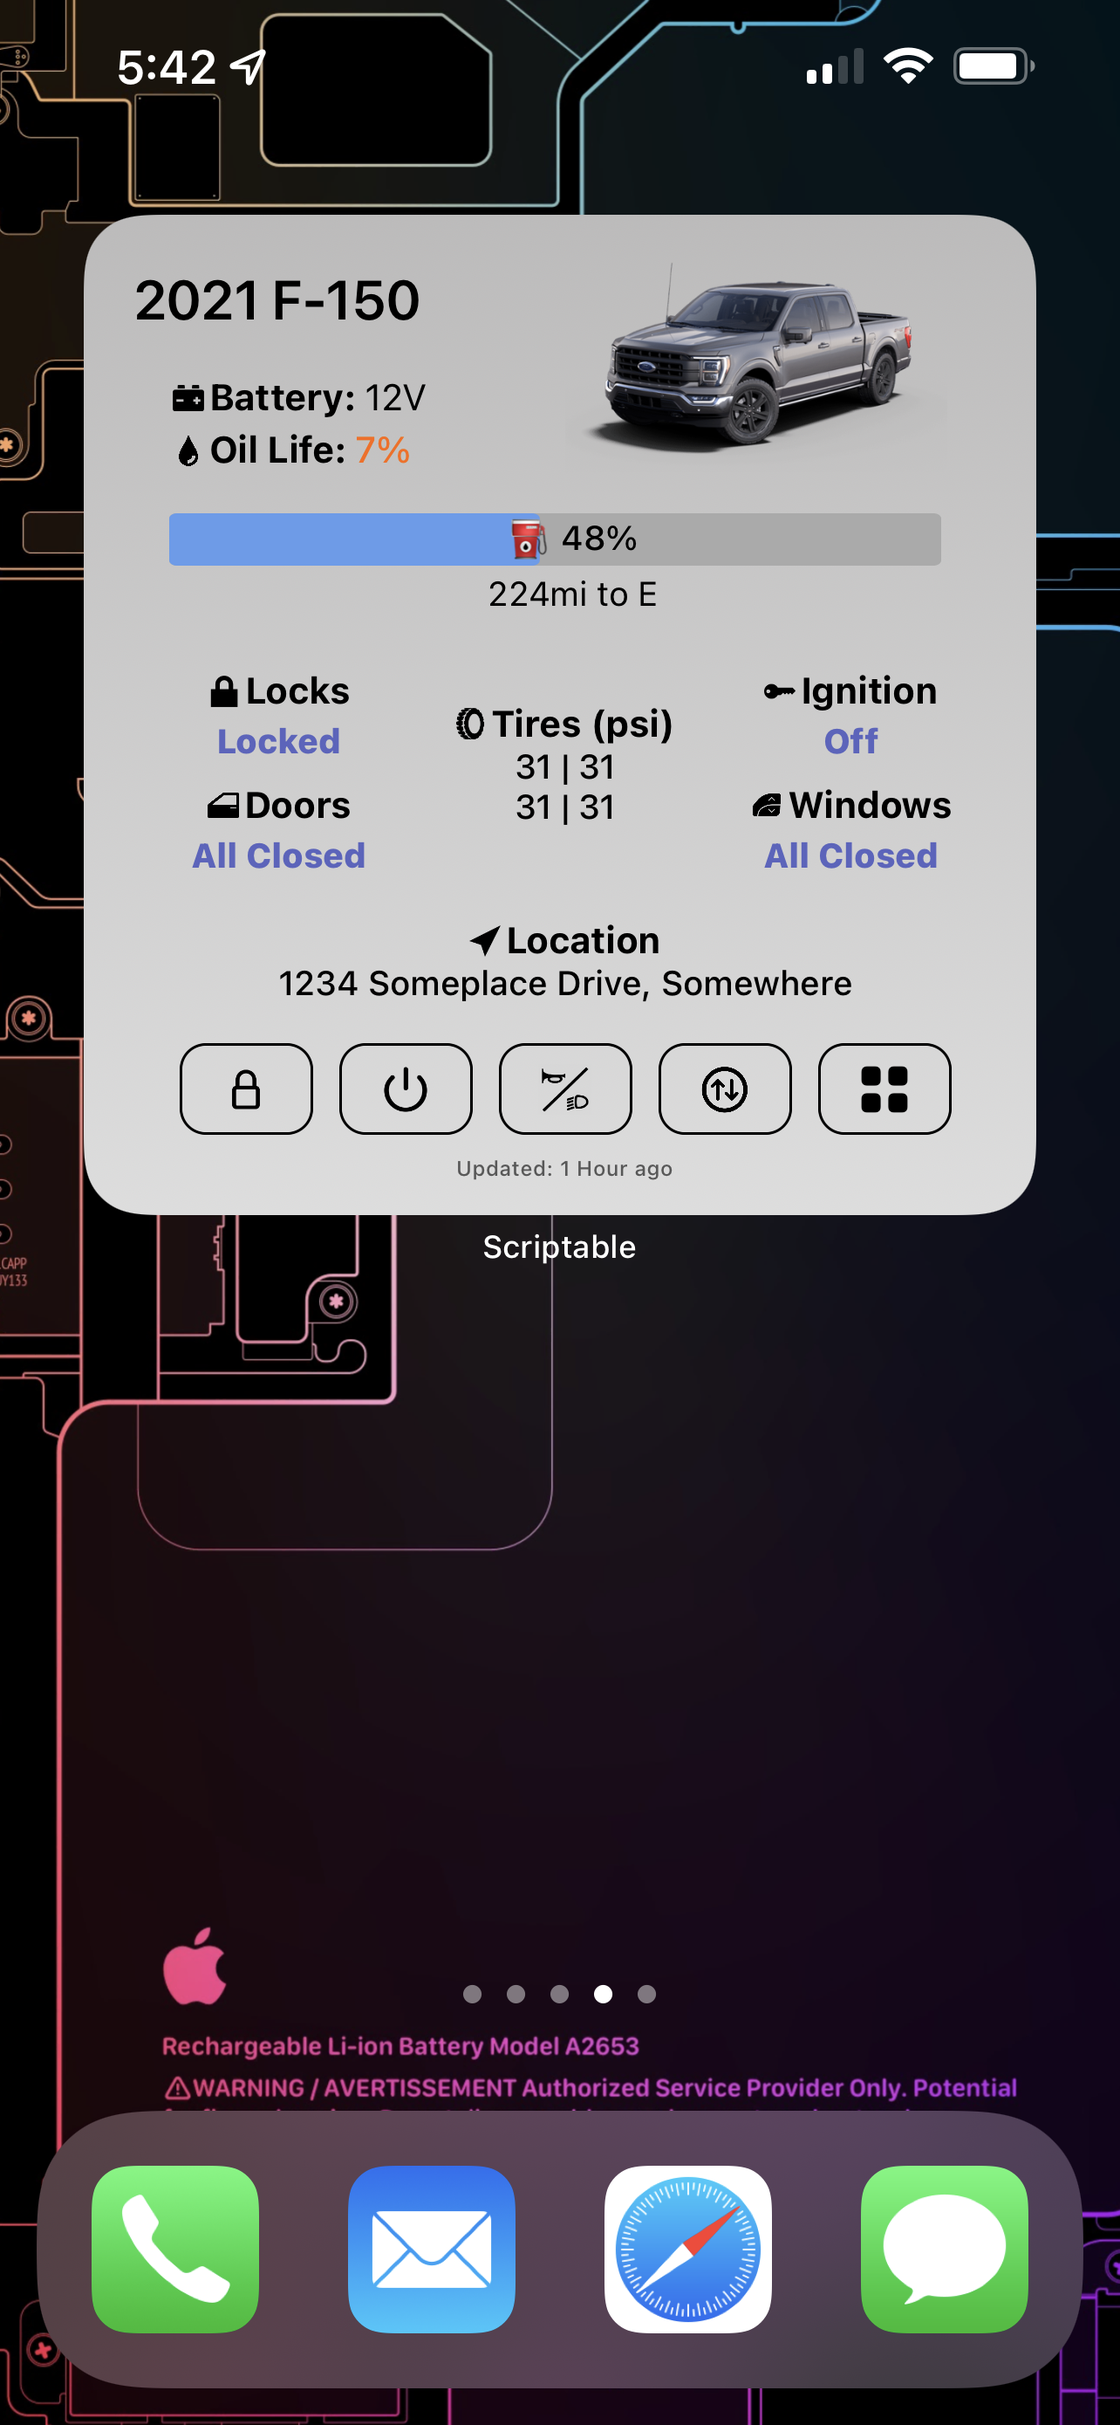
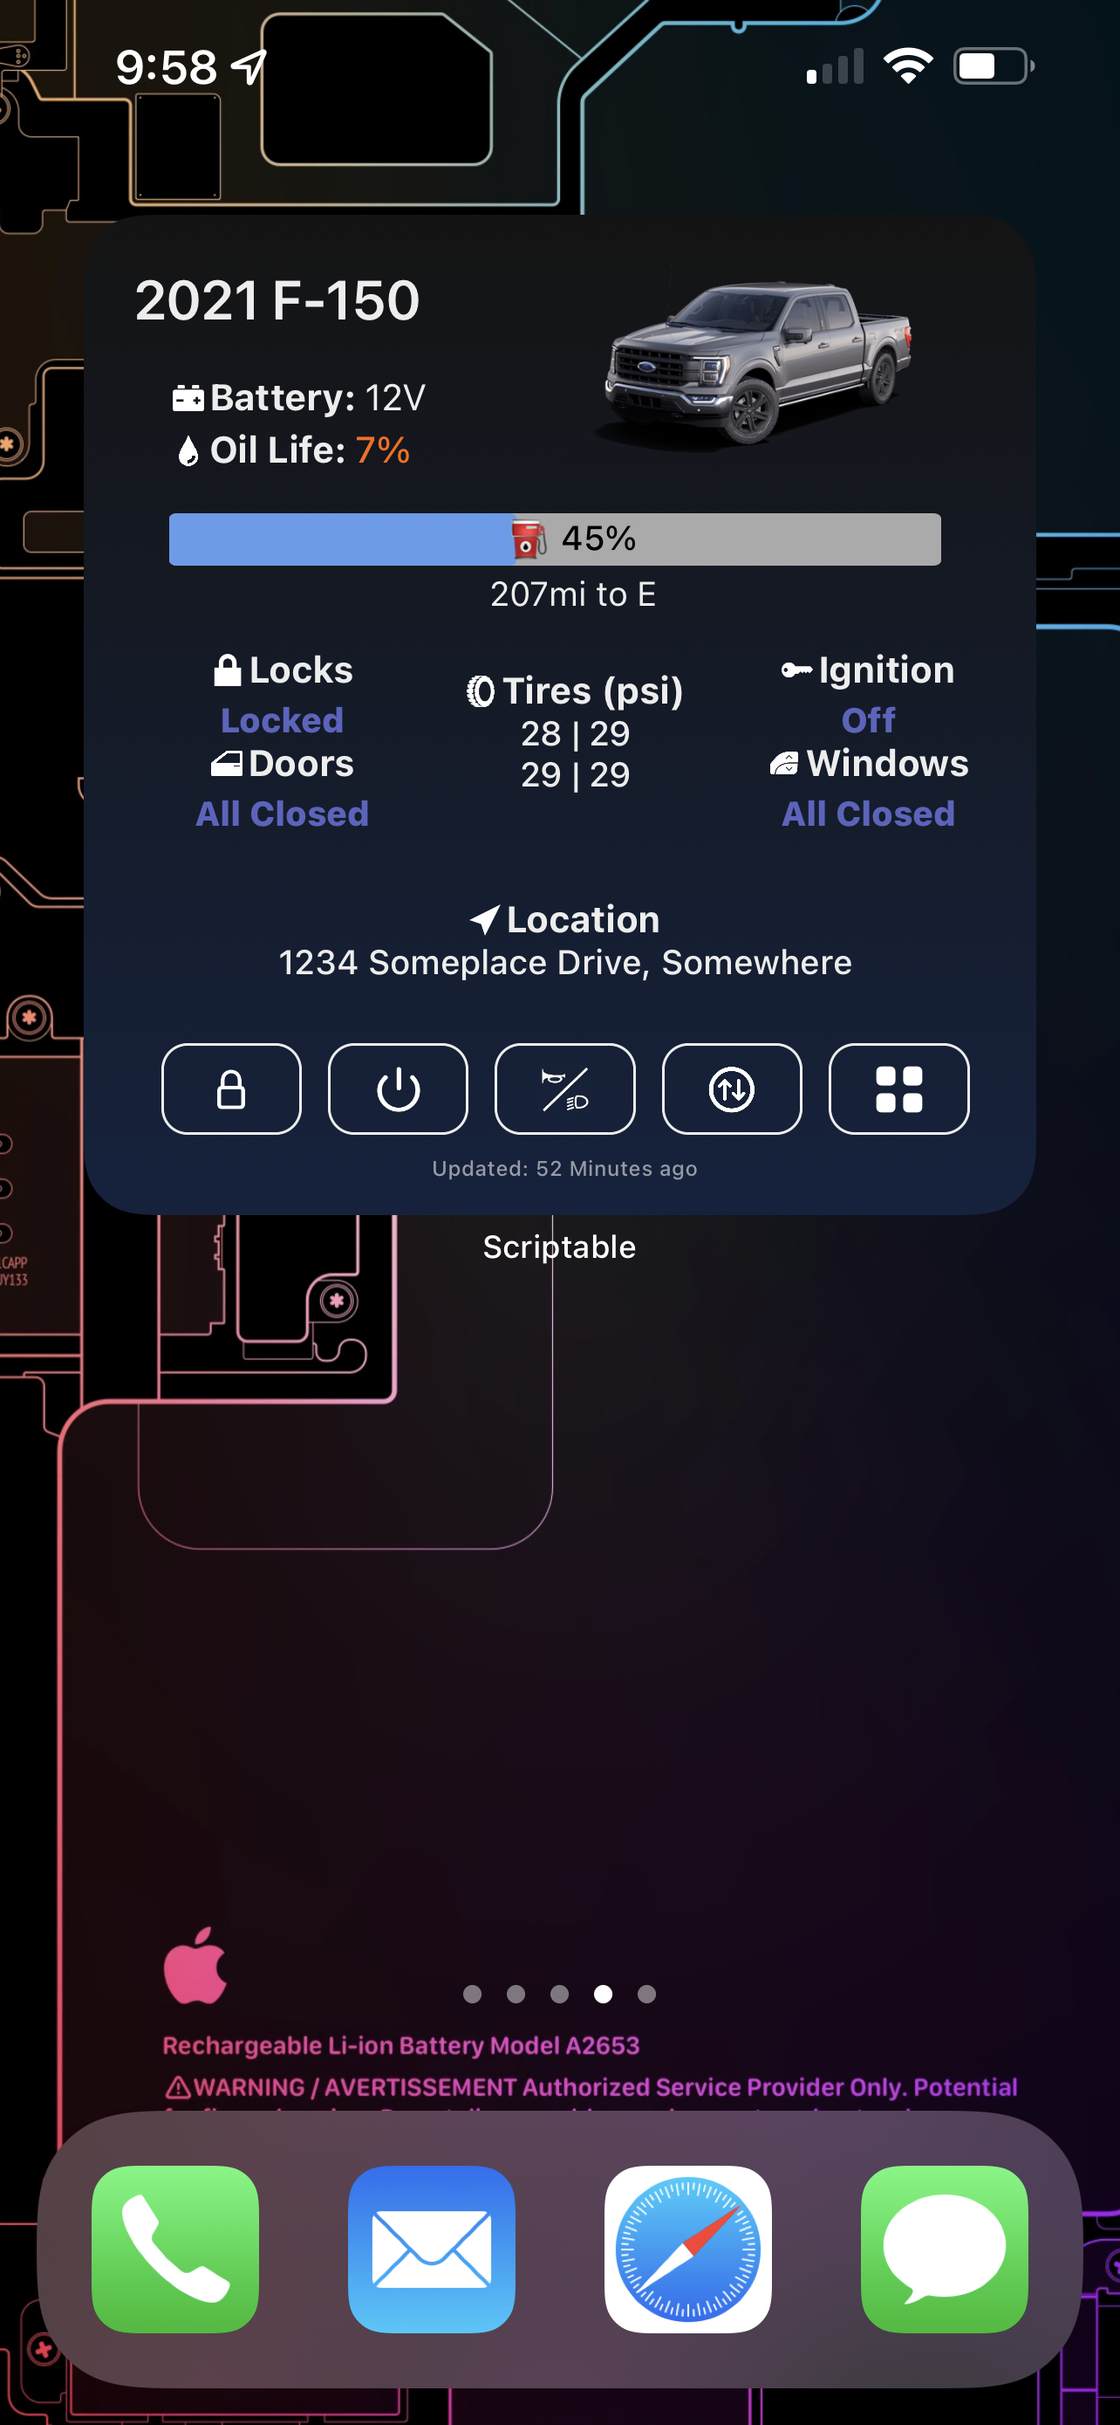
release version

diff --git a/Fordpass Widget.js b/Fordpass Widget.js
@@ -26,24 +26,22 @@
  */
 
 /**************
-// Todo: This Release (v2.0.0)) 
-    [-] use OTA info to show when an update is available or pending.
+// Todo: Next Release (Post 2.0.x)
+[-] use OTA info to show when an update is available or pending.
     [-] add actionable notifications for items like doors still unlocked after a certain time or low battery offer remote star... etc
     [x] allow solid color backgrounds for widgets
-
-// Todo: Next Release (Post 2.0.x)
-- setup up daily schedule that makes sure the doors are locked at certain time of day (maybe).
-    - add support for other languages
-    - add charge scheduling to dashboard menu
-    - add support for right hand drive (driver side windows, and doors etc.)
-    - add voice interface using siri shortcut
-        * generate list of actionable commands based on capability
-        * generate list of request command info available (are the doors locked, is the vehicle on, current fuel level, etc)
-        * handle context and tense of command
+[-] setup up daily schedule that makes sure the doors are locked at certain time of day (maybe).
+    [-] add support for other languages
+    [-] add charge scheduling to dashboard menu
+    [-] add support for right hand drive (driver side windows, and doors etc.)
+    [-] add voice interface using siri shortcut
+        [*] generate list of actionable commands based on capability
+        [*] generate list of request command info available (are the doors locked, is the vehicle on, current fuel level, etc)
+        [*] handle context and tense of command
     
 **************/
 const changelogs = {
-    '2022.02.17.0': {
+    '2022.02.18.0': {
         added: ['Dashboard page now refreshes the data every 30 seconds if you leave it open. It also includes a timestamp at the bottom of the page showing when it was last refreshed.', 'New Advanced Info link added to the bottom of the Dashboard page to quickly access the Sync Version info, all Widget data, and OTA info.'],
         fixed: ['Fixed issues with the widget parameters not working.  you no longer need to add the prefix of the widget size.  you can just detailed, detailedDark, detailedLight, simple, simpleDark, and simpleLight.'],
         removed: ['Disabled Oil Low Notifications', 'The OTA and vehicle data page is no longer in the menu, its been moved to the advanced info page that located at the botton of the dashboard.'],
@@ -70,7 +68,7 @@ const changelogs = {
     },
 };
 
-const SCRIPT_VERSION = '2022.02.17.0';
+const SCRIPT_VERSION = '2022.02.18.0';
 const SCRIPT_ID = 0; // Edit this is you want to use more than one instance of the widget. Any value will work as long as it is a number and  unique.
 
 //******************************************************************
@@ -117,7 +115,7 @@ const widgetConfig = {
     loadCacheOnly: false, // Use cached data for quick testing of widget and menu viewing
     saveFilesToIcloud: false, // Save files to icloud
     saveLogsToIcloud: false, // Save logs to icloud
-    useBetaModules: true, // Forces the use of the modules under the beta branch of the FordPass-scriptable GitHub repo.
+    useBetaModules: false, // Forces the use of the modules under the beta branch of the FordPass-scriptable GitHub repo.
     writeToLog: false, // Writes to the log file.
     exportVehicleImagesToIcloud: false, // This will download all 5 vehicle angle images to the Sciptable iCloud Folder as PNG files for use elsewhere.
     clearKeychainOnNextRun: false, // false or true
@@ -349,11 +347,11 @@ class Widget {
                     // await m1.presentMedium();
                     // let m2 = await this.generateWidget('mediumSimple', fordData);
                     // await m2.presentMedium();
-                    // let w5 = await this.generateWidget('large', fordData);
-                    // await w5.presentLarge();
+                    let w5 = await this.generateWidget('large', fordData);
+                    await w5.presentLarge();
 
-                    await this.App.createMainPage();
-                    await this.Timers.stopTimer('mainTableRefresh');
+                    // await this.App.createMainPage();
+                    // await this.Timers.stopTimer('mainTableRefresh');
                 }
             } else if (config.runsWithSiri || config.runsInActionExtension) {
                 // console.log('runsWithSiri: ' + config.runsWithSiri);
@@ -402,7 +400,8 @@ class Widget {
             }
             // Tries to fix the format of the VIN field (Makes sure they are capitalized)
             await this.vinFix(await this.getSettingVal('fpVin'));
-
+            // const devCreds = await this.Files.loadLocalDevCredentials();
+            // console.log(JSON.stringify(devCreds));
             let frcPrefs = false;
             let reqOk = await this.requiredPrefsOk(this.prefKeys().core);
             // console.log(`reqOk: ${reqOk}`);
@@ -453,9 +452,9 @@ class Widget {
             const { family, style, color, output } = await this.processWidgetParams(params);
             this.logInfo(`family: ${family} | Style: ${style} | Color: ${color}`, false);
             this.widgetColor = color;
+            this.widgetSize = family;
             switch (family) {
                 case 'small':
-                    this.widgetSize = 'small';
                     if (style === 'simple') {
                         widget = await this.smallSimpleWidget(data, color);
                     } else {
@@ -463,7 +462,6 @@ class Widget {
                     }
                     break;
                 case 'medium':
-                    this.widgetSize = 'medium';
                     if (style === 'simple') {
                         widget = await this.mediumSimpleWidget(data, color);
                     } else {
@@ -471,15 +469,13 @@ class Widget {
                     }
                     break;
                 case 'large':
-                    this.widgetSize = 'large';
-                    if (style === 'simple') {
-                        widget = await this.largeDetailedWidget(data, color);
-                    } else {
-                        widget = await this.largeDetailedWidget(data, color);
-                    }
+                    // if (style === 'simple') {
+                    //     widget = await this.largeDetailedWidget(data, color);
+                    // } else {
+                    widget = await this.largeDetailedWidget(data, color);
+                    // }
                     break;
                 case 'extraLarge':
-                    this.widgetSize = 'extraLarge';
                     widget = await this.largeDetailedWidget(data, color);
                     break;
                 default:
@@ -497,7 +493,7 @@ class Widget {
     }
 
     async generateTestWidget(params, data) {
-        const { size, style, color, output } = await this.processWidgetParams(params);
+        const { family, style, color, output } = await this.processWidgetParams(params);
         let widget = new ListWidget();
         let stk = widget.addStack();
         stk.layoutVertically();
@@ -505,7 +501,7 @@ class Widget {
         let txt1 = stk.addText(`Params: ${params}`);
         txt1.font = Font.systemFont(9);
 
-        let txt2 = stk.addText(`Size: ${size}`);
+        let txt2 = stk.addText(`Family: ${family}`);
         txt2.font = Font.systemFont(9);
 
         let txt3 = stk.addText(`Style: ${style}`);
@@ -2073,10 +2069,10 @@ class Widget {
             console.log(`widgetSizes: ${JSON.stringify(widgetSizes)}`);
             const { width, height } = widgetSizes;
 
-            let paddingY = 10; //Math.round(height * 0.08);
-            let paddingX = 7; //Math.round(width * 0.06);
-            console.log(`padding | Top: ${paddingY} | Left: ${paddingX}`);
-            const wContent = await this.createColumn(widget, { '*setPadding': [paddingY, paddingX, paddingY, paddingX] });
+            let paddingTop = 10; //Math.round(height * 0.08);
+            let paddingLeft = 7; //Math.round(width * 0.06);
+            console.log(`padding | Top: ${paddingTop} | Left: ${paddingLeft}`);
+            const wContent = await this.createColumn(widget, { '*setPadding': [paddingTop, paddingLeft, paddingTop, paddingLeft] });
 
             const isEV = vData.evVehicle === true;
             let dtePostfix = isEV ? 'Range' : 'to E';
@@ -2098,7 +2094,7 @@ class Widget {
             let topRowLeftCol = await this.createColumn(topRowContainer, { '*bottomAlignContent': null });
             // topRowLeftCol.addSpacer();
             // Vehicle Title
-            let nameContainer = await this.createRow(topRowLeftCol, { '*setPadding': [paddingY, paddingX, 0, 0] });
+            let nameContainer = await this.createRow(topRowLeftCol, { '*setPadding': [paddingTop, paddingLeft, 0, 0] });
             // nameContainer.addSpacer(); // Pushes the vehicle name to the left
             let nameStr = vData.info.vehicle.vehicleType || '';
 
@@ -2106,12 +2102,12 @@ class Widget {
             if (nameStr.length >= 10) {
                 nameSize = nameSize - Math.round(nameStr.length / 4);
             }
-            await this.createText(nameContainer, nameStr, { font: Font.semiboldSystemFont(nameSize), textColor: this.colorMap.text[this.widgetColor], minimumScaleFactor: 0.9, lineLimit: 1 });
+            await this.createText(nameContainer, nameStr, { font: Font.semiboldSystemFont(nameSize), textColor: this.colorMap.text[colorMode], minimumScaleFactor: 0.9, lineLimit: 1 });
             nameContainer.addSpacer(); // Pushes the vehicle name to the left
 
             topRowLeftCol.addSpacer();
             const extraPadding = this.isSmallDisplay ? 0 : 15;
-            const topLeftInfoCol = await this.createColumn(topRowLeftCol, { '*setPadding': [0, paddingX + extraPadding, 0, 0] });
+            const topLeftInfoCol = await this.createColumn(topRowLeftCol, { '*setPadding': [0, paddingLeft + extraPadding, 0, 0] });
             // Creates Battery Level Elements
             topLeftInfoCol.addSpacer();
             await this.createBatteryElement(topLeftInfoCol, vData, 'left');
@@ -2162,7 +2158,7 @@ class Widget {
             const dteRow = await this.createRow(fuelBattCol, { '*setPadding': [0, 0, 0, 0] });
             let dteInfo = dteValue ? `    ${Math.round(dteValue * distanceMultiplier)}${distanceUnit} ${dtePostfix}` : this.textMap().errorMessages.noData;
             dteRow.addSpacer();
-            await this.createText(dteRow, dteInfo, { '*centerAlignText': null, font: Font.systemFont(this.sizeMap[this.widgetSize].fontSizeMedium), textColor: this.colorMap.text[this.widgetColor], lineLimit: 1 });
+            await this.createText(dteRow, dteInfo, { '*centerAlignText': null, font: Font.systemFont(this.sizeMap[this.widgetSize].fontSizeMedium), textColor: this.colorMap.text[colorMode], lineLimit: 1 });
             dteRow.addSpacer();
             fuelBattRow.addSpacer();
             fuelBattCol.addSpacer();
@@ -2170,34 +2166,37 @@ class Widget {
             //*****************
             //* Row 3 Container
             //*****************
-            const row3Container = await this.createRow(wContent, { '*setPadding': [0, 0, 0, 0], '*topAlignContent': null });
+            const row3Col = await this.createColumn(wContent, { '*setPadding': [0, 0, 0, 0], '*topAlignContent': null });
+            const row3Row = await this.createRow(row3Col, { '*setPadding': [0, 0, 0, 0], '*topAlignContent': null });
 
-            row3Container.addSpacer();
-            const row3LeftCol = await this.createColumn(row3Container, { '*setPadding': [0, 0, 0, 0] });
+            row3Row.addSpacer();
+            const row3LeftCol = await this.createColumn(row3Row, { '*setPadding': [0, 0, 0, 0] });
             // Creates the Lock Status Elements
             await this.createLockStatusElement(row3LeftCol, vData);
-            row3LeftCol.addSpacer(); // Pushes Row 3 Left content to top
+            // row3LeftCol.addSpacer(); // Pushes Row 3 Left content to top
             // Creates the Door Status Elements
             await this.createDoorElement(row3LeftCol, vData);
 
             row3LeftCol.addSpacer(); // Pushes Row 3 Left content to top
 
-            const row3CenterCol = await this.createColumn(row3Container, { '*setPadding': [0, 0, 0, 0] });
+            const row3CenterCol = await this.createColumn(row3Row, { '*setPadding': [0, 0, 0, 0] });
             row3CenterCol.addSpacer(); // Pushes Row 3 Left content to top
             // Create Tire Pressure Elements
             await this.createTireElement(row3CenterCol, vData);
             row3CenterCol.addSpacer(); // Pushes Row 3 Left content to top
             // row3CenterCol.addSpacer(); // Pushes Row 3 Left content to top
 
-            const row3RightCol = await this.createColumn(row3Container, { '*setPadding': [0, 0, 0, 0] });
+            const row3RightCol = await this.createColumn(row3Row, { '*setPadding': [0, 0, 0, 0] });
+            // row3RightCol.addSpacer(); // Pushes Row 3 Right content to top
             // Creates the Ignition Status Elements
             await this.createIgnitionStatusElement(row3RightCol, vData);
-            row3RightCol.addSpacer(); // Pushes Row 3 Right content to top
+
             // Creates the Window Status Elements
             await this.createWindowElement(row3RightCol, vData);
             row3RightCol.addSpacer(); // Pushes Row 3 Right content to top
 
-            row3Container.addSpacer();
+            // row3Row.addSpacer();
+            row3Col.addSpacer(); // Pushes Row 3 content to top
             wContent.addSpacer();
 
             const row5Container = await this.createRow(wContent, { '*setPadding': [0, 0, 0, 0] });
@@ -2206,32 +2205,31 @@ class Widget {
             await this.createPositionElement(row5CenterCol, vData, 'center');
 
             wContent.addSpacer(); // Pushes all content to the top
-
+            // widget.addSpacer(); // Pushes all content to the top
             // //**********************
             // //* Status Row
             // //*********************
 
-            // if (hasStatusMsg) {
-            //     let statusRow = await this.createRow(wContent, { '*setPadding': [0, paddingX, 0, 0], '*bottomAlignContent': null });
-            //     // statusRow.addSpacer();
-            //     await this.createStatusElement(statusRow, vData, 3);
-            //     statusRow.addSpacer();
-            // } else if (!this.isSmallDisplay) {
-            //     wContent.addSpacer();
-            // }
+            if (hasStatusMsg) {
+                let statusRow = await this.createRow(wContent, { '*setPadding': [0, paddingLeft, 0, 0], '*bottomAlignContent': null });
+                // statusRow.addSpacer();
+                await this.createStatusElement(statusRow, vData, 3);
+                statusRow.addSpacer();
+            } else if (!this.isSmallDisplay) {
+                wContent.addSpacer();
+            }
             // //*****************************
             // //* COMMAND BUTTONS CONTAINER
             // //*****************************
             const controlsContainer = await this.createRow(wContent, { '*setPadding': [7, 0, 5, 0] });
             controlsContainer.addSpacer();
 
-            await this.createWidgetButtonRow(controlsContainer, vData, paddingX, width, 35, 24);
+            await this.createWidgetButtonRow(controlsContainer, vData, 0, width, 35, 24);
             controlsContainer.addSpacer();
 
             // Displays the Last Vehicle Checkin Time Elapsed...
             let timestampRow = await this.createRow(wContent, { '*setPadding': [3, 0, 3, 0] });
             await this.createTimeStampElement(timestampRow, vData, 'center', 8);
-            // widget.addSpacer();
         } catch (e) {
             await this.logError(`largeDetailedWidget Error: ${e}`, true);
         }

diff --git a/docs/FordWidgetTool.js b/docs/FordWidgetTool.js
@@ -4,7 +4,7 @@
 
 // This is based on the scriptdude installer https://github.com/kevinkub/scriptdu.de script and modified to manage the Ford Widget script
 
-const SCRIPT_VERSION = '2.0.0';
+const SCRIPT_VERSION = '2.0.1';
 const maxSupportedInstance = 10;
 const configUrl = `https://raw.githubusercontent.com/tonesto7/fordpass-scriptable/main/docs/config.json`;
 
@@ -136,6 +136,16 @@ class WidgetInstaller {
 
     async getReleaseMode() {
         return (await wTool.getKeychainValue('fpWtReleaseMode')) || 'public';
+    }
+
+    async isDevMode() {
+        const cloudFm = FileManager.iCloud();
+        const isDevMode = cloudFm.fileExists(cloudFm.joinPath(cloudFm.documentsDirectory(), 'FPW_Devmode')); // Disables Module File Hash checks, disables localModule loading, disables saving logs to iCloud Folder.
+        if (isDevMode) {
+            console.log('Dev Mode Enabled!');
+            return true;
+        }
+        return false;
     }
 
     async showAlert(title, message) {
@@ -313,9 +323,10 @@ class WidgetInstaller {
             let code = await req.loadString();
             let moduleName = url.substring(url.lastIndexOf('/') + 1);
             let codeToStore = Data.fromString(`${code}`);
-            await this.icloudFileManager.createDirectory(this.icloudFileManager.joinPath(this.icloudDocDirectory, 'FPWModules'), true);
-            let filePath = this.icloudFileManager.joinPath(this.icloudDocDirectory, 'FPWModules') + `/${moduleName}`;
-            this.icloudFileManager.write(filePath, codeToStore);
+            const fm = this.isDevMode() ? this.icloudFileManager : this.localFileManager;
+            await fm.createDirectory(fm.joinPath(this.icloudDocDirectory, 'FPWModules'), true);
+            let filePath = fm.joinPath(this.icloudDocDirectory, 'FPWModules') + `/${moduleName}`;
+            await fm.write(filePath, codeToStore);
             return true;
         } catch (e) {
             console.error('saveModule error: ' + e);
